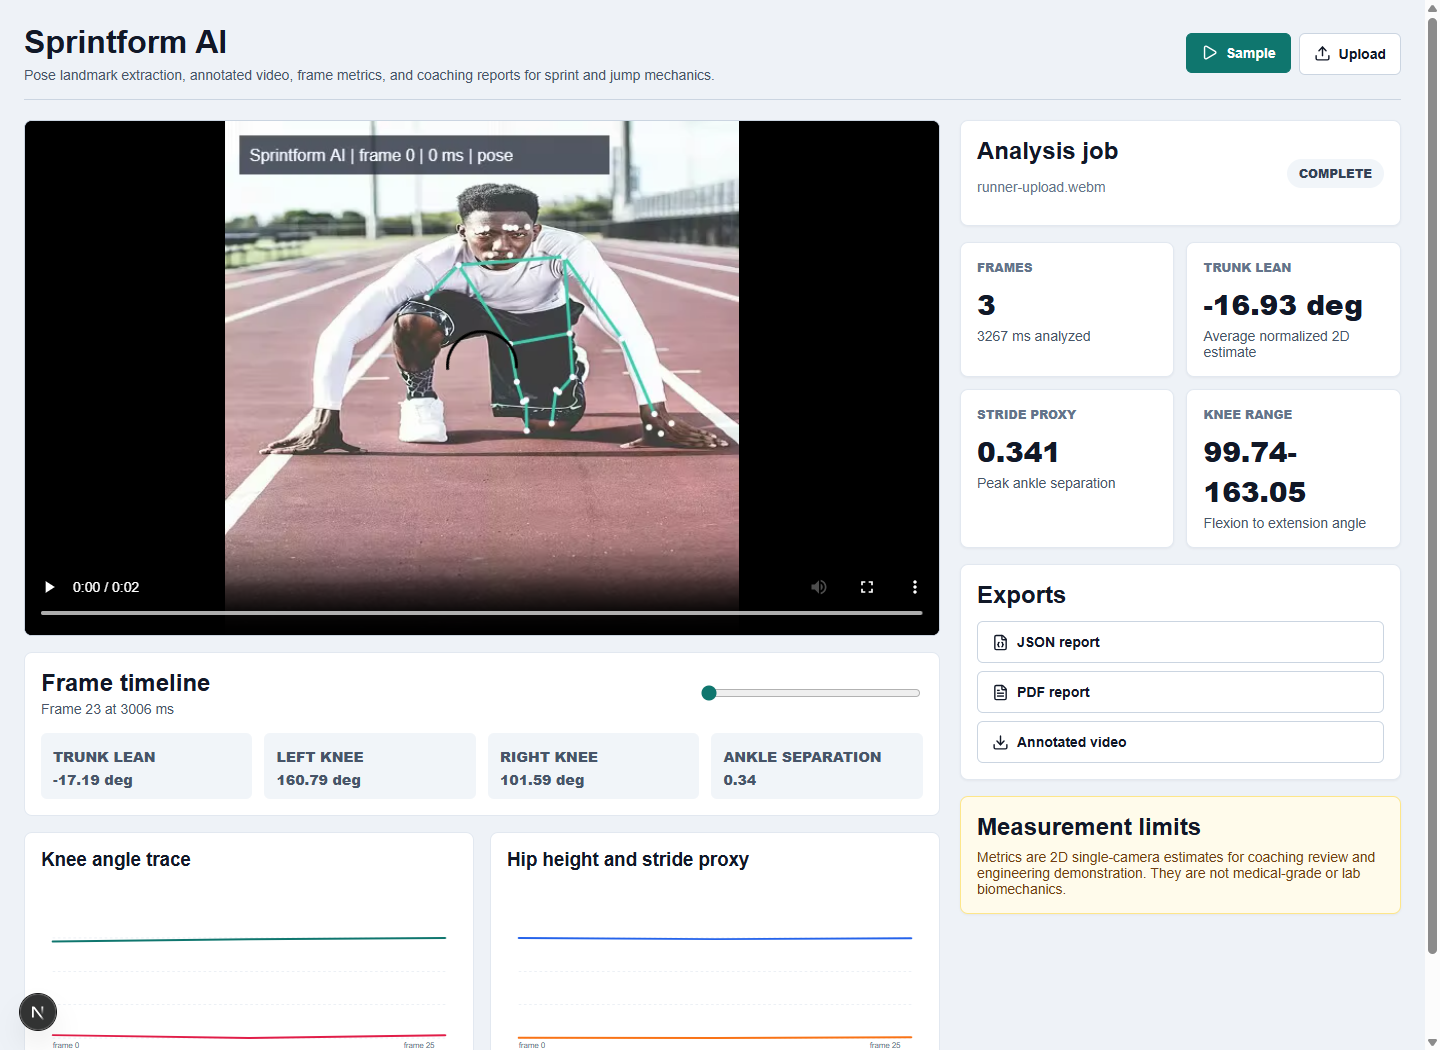
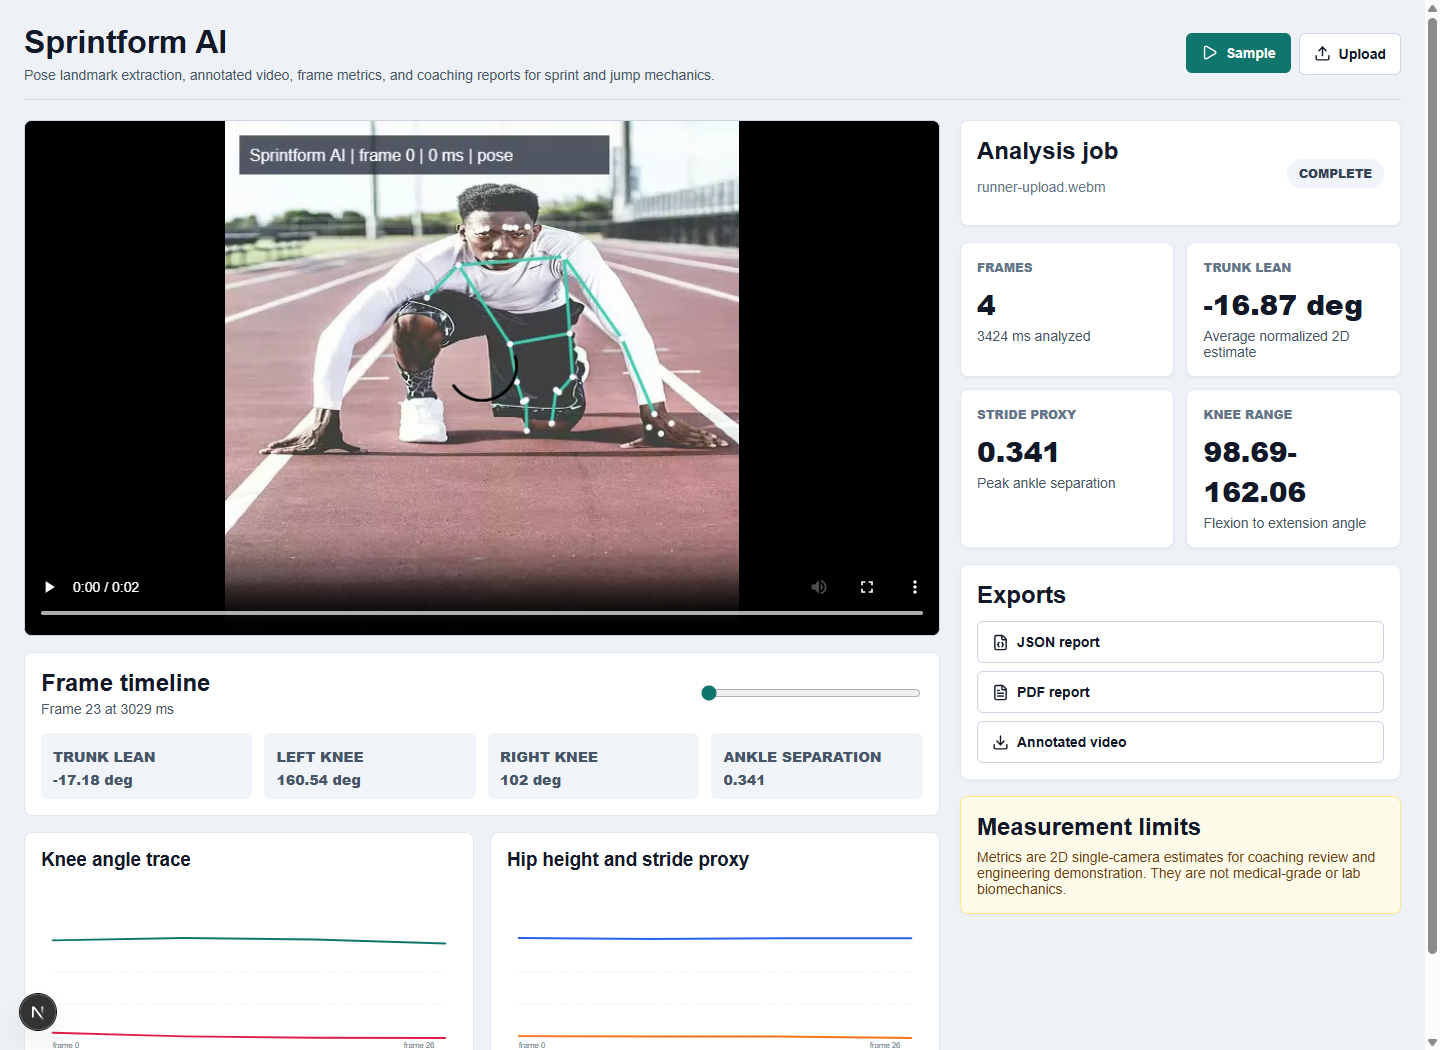
fix: load mediapipe assets from pinned cdn

diff --git a/frontend/lib/browserAnalysis.ts b/frontend/lib/browserAnalysis.ts
@@ -5,6 +5,7 @@ import type { BrowserAnalysisResult, Report } from "@/lib/types";
 const MAX_ANALYSIS_SECONDS = 20;
 const MAX_FRAMES = 160;
 const TARGET_FPS = 8;
+const MEDIAPIPE_POSE_ASSET_BASE = "https://cdn.jsdelivr.net/npm/@mediapipe/pose@0.5.1675469404";
 
 type Progress = {
   stage: string;
@@ -24,7 +25,7 @@ export async function analyzeVideoInBrowser(file: File, onProgress: (progress: P
   const { Pose } = await import("@mediapipe/pose");
   onProgress({ stage: "Initializing pose detector", percent: 7 });
   const landmarker = new Pose({
-    locateFile: (file: string) => `/mediapipe/pose/${file}`,
+    locateFile: (file: string) => `${MEDIAPIPE_POSE_ASSET_BASE}/${file}`,
   }) as PoseLandmarkerLike;
   landmarker.setOptions({
     modelComplexity: 0,

diff --git a/README.md b/README.md
@@ -10,7 +10,7 @@ This is not medical software and does not claim professional biomechanical accur
 
 ## Features
 
-- Public Vercel upload analysis runs in the browser with vendored MediaPipe Pose assets.
+- Public Vercel upload analysis runs in the browser with a version-pinned MediaPipe Pose runtime.
 - FastAPI upload and sample-analysis API.
 - OpenCV video decoding and annotated MP4 rendering.
 - MediaPipe pose landmark extraction for browser uploads and the local Python worker.
@@ -67,7 +67,7 @@ Open `http://localhost:3000`, then upload a browser-decodable sprint/jump clip o
 
 The Vercel deployment hosts the Next.js workstation from `frontend`.
 
-- Upload analysis runs fully in the browser using `@mediapipe/pose` assets vendored under `frontend/public/mediapipe/pose`.
+- Upload analysis runs fully in the browser using `@mediapipe/pose` with version-pinned runtime assets loaded from jsDelivr.
 - The browser path samples up to 20 seconds / 160 frames, computes sprint/jump metrics, renders an annotated WebM, and exports JSON/PDF reports.
 - The FastAPI/OpenCV worker remains available for local backend processing and annotated MP4 generation.
 - The sample button uses the local API when available and falls back to bundled demo artifacts under `frontend/public/demo` on Vercel.
@@ -89,6 +89,6 @@ npm run build
 
 ## Pose Model Notes
 
-The public upload path uses MediaPipe Pose in the browser. The Python `PoseExtractor` class also uses MediaPipe when the Python dependency is installed, and otherwise falls back to deterministic synthetic landmarks for the bundled sample/demo path. That fallback keeps the public project self-contained and avoids private athlete footage.
+The public upload path uses MediaPipe Pose in the browser. The JavaScript package is installed locally, while large runtime/model assets are loaded from the pinned MediaPipe package on jsDelivr so Vercel does not have to serve multi-megabyte model files slowly. The Python `PoseExtractor` class also uses MediaPipe when the Python dependency is installed, and otherwise falls back to deterministic synthetic landmarks for the bundled sample/demo path. That fallback keeps the public project self-contained and avoids private athlete footage.
 
 Recommended next step: compare MediaPipe against Ultralytics YOLO pose on public sprint/jump clips with documented limitations and confidence scoring.

diff --git a/demo/evidence.md b/demo/evidence.md
@@ -42,6 +42,6 @@ npm run dev
 - `VERCEL=1 npm run dev -- --hostname 127.0.0.1 --port 3002` plus headless Chrome: Sample button loaded `/demo/annotated.mp4`, `/demo/report.json`, and `/demo/report.pdf`.
 - Vercel-mode screenshot evidence: `demo/vercel-mode-dashboard.png`.
 - Vercel-mode browser text evidence: `demo/vercel-mode-browser-check.json`.
-- Browser upload processing was verified with a generated WebM runner clip in headless Chrome: MediaPipe Pose loaded from vendored frontend assets, the upload completed, and JSON/PDF/annotated video export links were created as Blob URLs.
+- Browser upload processing was verified with a generated WebM runner clip in headless Chrome: MediaPipe Pose loaded from pinned runtime assets, the upload completed, and JSON/PDF/annotated video export links were created as Blob URLs.
 - Browser upload evidence files: `demo/browser-upload-check.json` and `demo/browser-upload-dashboard.png`.
 - Public Vercel upload path is expected to produce annotated WebM output because browser-native recording uses `MediaRecorder`.